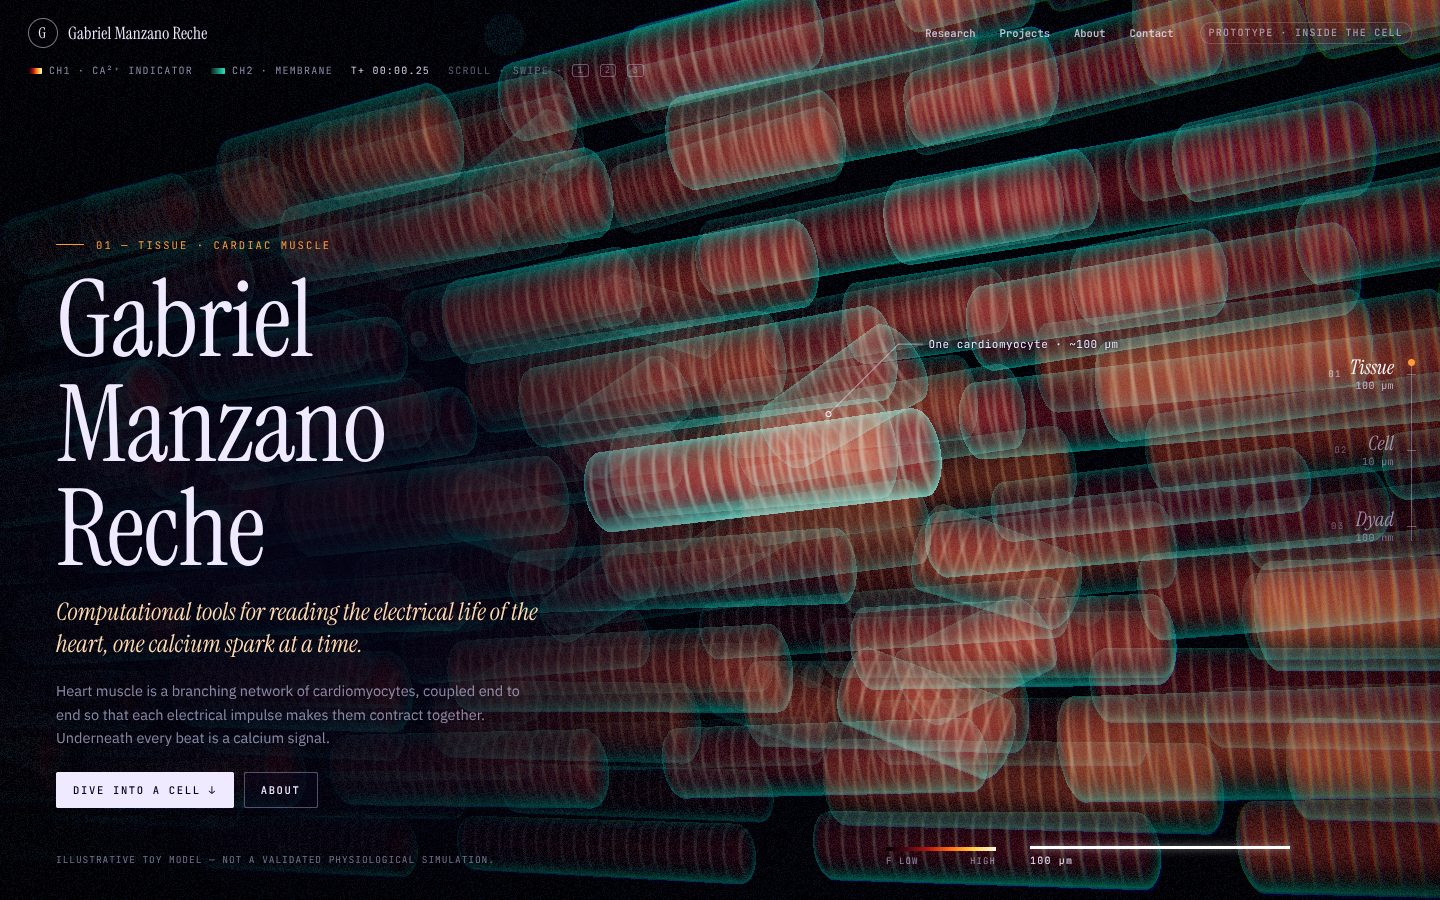
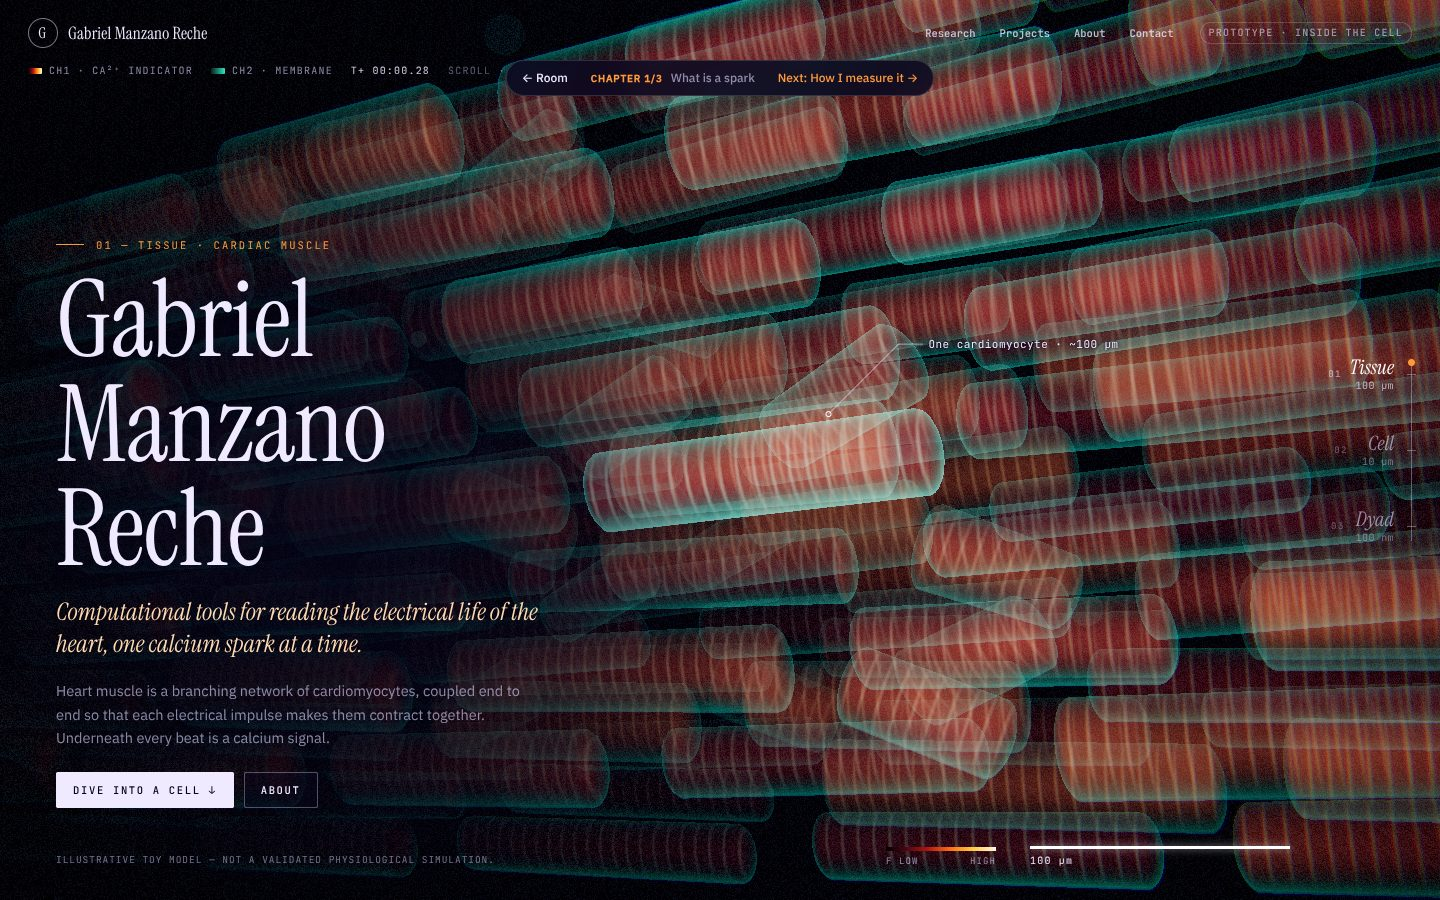
Link the room to the thesis chapters with iris transitions
- src/shared/transition.ts: leave()/arrive() iris hand-off between pages
  (sessionStorage, reduced-motion aware), started automatically by mountChrome
- src/shared/chapters.ts: Room ← · Chapter n/3 · Next → bar in C, D and E
- Signal Room: microscope eyepiece 'Enter the cell' → Ch.1; computer: camera flies
  into the screen → Ch.2 (SPARK/OS); Barcelona window view → Ch.3 (Excitable City)

Claude-Session: https://claude.ai/code/session_01UoR4RpDidyaS8iY2xZxX2B

diff --git a/src/concepts/signal-room/main.ts b/src/concepts/signal-room/main.ts
@@ -15,6 +15,8 @@ import { person } from '../../shared/content';
 import { prefersReducedMotion, isTouch, url } from '../../shared/env';
 import { createScreen } from './screen';
 import { openEyepiece } from './eyepiece';
+import { leave } from '../../shared/transition';
+import { CHAPTERS, pageUrl } from '../../shared/chapters';
 import { openCatalogue } from '../../shared/catalogue';
 import { createCityWindow, CITIES } from './cityWindow';
 
@@ -22,8 +24,8 @@ const EXPOSURE = 2.0; // must match blender/bake.py
 
 type Spot = { label: string; kicker: string; open: () => void };
 const SPOTS: Record<string, Spot> = {
-  microscope: { label: 'Microscope', kicker: 'Imaging · calcium signalling', open: () => openEyepiece() },
-  computer: { label: 'Workstation', kicker: 'Software · GitHub', open: () => openPanel('projects') },
+  microscope: { label: 'Microscope', kicker: 'Chapter 1 · What is a spark', open: () => openEyepiece() },
+  computer: { label: 'Workstation', kicker: 'Chapter 2 · How I measure it', open: () => {} }, // handled by enterScreen()
   notebook: { label: 'Research notebook', kicker: 'Records · publications', open: () => openCatalogue('BIBLIOGRAPHY') },
   poster: {
     label: 'Conference poster', kicker: 'Talks · posters',
@@ -77,7 +79,9 @@ function start() {
     reduced,
     onChange: (c) => {
       const n = CITIES.indexOf(c) + 1;
-      caption.innerHTML = `<span>Places I've lived · ${n}/${CITIES.length}</span><b>${c.name}</b><i>${c.landmarks}</i>`;
+      caption.innerHTML = `<span>Places I've lived · ${n}/${CITIES.length}</span><b>${c.name}</b><i>${c.landmarks}</i>` +
+        (c.key === 'barcelona' ? `<button class="sr-city-go">Watch Barcelona beat · Chapter 3 →</button>` : '');
+      caption.querySelector('.sr-city-go')?.addEventListener('click', () => enterCity());
       caption.classList.remove('is-in'); void caption.offsetWidth; caption.classList.add('is-in');
       const w = anchors.find((a) => a.key === 'window');
       if (w) w.el.querySelector('i')!.textContent = `Places I've lived · ${c.name}`;
@@ -204,15 +208,41 @@ function start() {
     if (ray.intersectObject(scene, true)[0]?.object === cityWin.mesh) cityWin.next();
   });
 
-  // --- camera flights
-  let flight: { from: typeof view; to: typeof view; t: number } | null = null;
-  let focused: string | null = null;
-  function flyTo(to: typeof view) {
-    const from = { pos: view.pos.clone(), target: view.target.clone(), focal: view.focal };
-    flight = reduced ? null : { from, to, t: 0 };
-    if (reduced) Object.assign(view, { pos: to.pos.clone(), target: to.target.clone(), focal: to.focal });
+  // --- window → Chapter 3: push towards the glass, then drop into the excitable city
+  function enterCity() {
+    focused = 'window';
+    document.body.classList.add('is-focused');
+    const target = b2t(-0.2, 1.9, 1.75);
+    flyThen({ pos: b2t(-0.05, 1.2, 1.7), target, focal: 22 }, () => leave(pageUrl(CHAPTERS[2].slug), { color: CHAPTERS[2].color }));
   }
+
+  // --- camera flights
+  let flight: { from: typeof view; to: typeof view; t: number; done?: () => void } | null = null;
+  let focused: string | null = null;
+  function flyTo(to: typeof view, done?: () => void) {
+    const from = { pos: view.pos.clone(), target: view.target.clone(), focal: view.focal };
+    flight = reduced ? null : { from, to, t: 0, done };
+    if (reduced) { Object.assign(view, { pos: to.pos.clone(), target: to.target.clone(), focal: to.focal }); done?.(); }
+  }
+  /** Fly, then run `then` once the camera has arrived (with a safety timeout for slow devices). */
+  function flyThen(to: typeof view, then: () => void) {
+    let fired = false;
+    const once = () => { if (!fired) { fired = true; then(); } };
+    flyTo(to, once);
+    setTimeout(once, 4000);
+  }
+  function enterScreen() {
+    if (!screenMesh) return;
+    focused = 'computer';
+    document.body.classList.add('is-focused');
+    const c = new THREE.Box3().setFromObject(screenMesh).getCenter(new THREE.Vector3());
+    // the screen faces the room (+z in three); stop just in front of it, filling the view
+    flyThen({ pos: c.clone().add(new THREE.Vector3(0, 0, innerWidth / innerHeight < 0.9 ? 0.75 : 0.42)), target: c, focal: 26 },
+      () => leave(pageUrl(CHAPTERS[1].slug), { color: CHAPTERS[1].color }));
+  }
+
   function focusOn(key: string) {
+    if (key === 'computer') return enterScreen();
     const o = spotObjs[key];
     if (!o) return;
     focused = key;
@@ -256,7 +286,7 @@ function start() {
       view.pos.lerpVectors(flight.from.pos, flight.to.pos, k);
       view.target.lerpVectors(flight.from.target, flight.to.target, k);
       view.focal = THREE.MathUtils.lerp(flight.from.focal, flight.to.focal, k);
-      if (flight.t >= 1) flight = null;
+      if (flight.t >= 1) { const done = flight.done; flight = null; done?.(); }
     }
     if (!reduced) sway.lerp(mouse, 0.04);
     camera.position.copy(view.pos).add(tmp.set(sway.x * 0.08, -sway.y * 0.04, 0));

diff --git a/src/shared/transition.ts b/src/shared/transition.ts
@@ -1,0 +1,59 @@
+/**
+ * Page-to-page "iris" transitions between the room and the thesis chapters.
+ * leave(): an iris closes onto a point of the screen, then navigates.
+ * arrive(): called by mountChrome on every page; if the previous page left
+ * through an iris, the new page opens from the same colour once it is ready.
+ * The hand-off travels in sessionStorage (optional: without it pages just load).
+ */
+import { prefersReducedMotion } from './env';
+
+const KEY = 'gx-transition';
+interface Hand { color: string; at: number }
+
+function iris(color: string, x: number, y: number, size: string) {
+  const el = document.createElement('div');
+  el.className = 'gx-iris';
+  el.style.setProperty('--iris-color', color);
+  el.style.left = `${x}px`;
+  el.style.top = `${y}px`;
+  el.style.width = el.style.height = size;
+  document.body.append(el);
+  return el;
+}
+
+/** Close an iris onto (x, y) in the given colour, then go to href. */
+export function leave(href: string, opts: { x?: number; y?: number; color?: string } = {}) {
+  const color = opts.color ?? '#050506';
+  try { sessionStorage.setItem(KEY, JSON.stringify({ color, at: Date.now() } satisfies Hand)); } catch { /* private mode */ }
+  if (prefersReducedMotion()) { location.href = href; return; }
+  const el = iris(color, opts.x ?? innerWidth / 2, opts.y ?? innerHeight / 2, '300vmax');
+  el.getBoundingClientRect(); // commit the start size before animating
+  el.classList.add('is-closing');
+  el.style.width = el.style.height = '0px';
+  setTimeout(() => { location.href = href; }, 900);
+}
+
+/** Open the page from the colour the previous page closed on (no-op on a normal load). */
+export function arrive() {
+  let hand: Hand | null = null;
+  try {
+    hand = JSON.parse(sessionStorage.getItem(KEY) ?? 'null');
+    sessionStorage.removeItem(KEY);
+  } catch { /* ignore */ }
+  if (!hand || Date.now() - hand.at > 15000) return;
+  const el = iris(hand.color, innerWidth / 2, innerHeight / 2, '0px');
+  const t0 = performance.now();
+  const open = () => {
+    if (prefersReducedMotion()) { el.remove(); return; }
+    el.classList.add('is-opening');
+    el.style.width = el.style.height = '300vmax';
+    setTimeout(() => el.remove(), 1300);
+  };
+  // wait for the concept's first meaningful frame (max 8 s), and at least a beat
+  const wait = () => {
+    const ready = window.__conceptReady === true && !document.querySelector('.gx-loader:not(.is-done)');
+    if ((ready && performance.now() - t0 > 250) || performance.now() - t0 > 8000) open();
+    else requestAnimationFrame(wait);
+  };
+  requestAnimationFrame(wait);
+}

diff --git a/src/shared/chrome.css b/src/shared/chrome.css
@@ -82,3 +82,35 @@
   * { scroll-behavior: auto !important; }
   .gx-loader { transition: none; }
 }
+
+/* Iris transition (src/shared/transition.ts): a hole whose huge box-shadow is the curtain */
+.gx-iris {
+  position: fixed; z-index: 300; border-radius: 50%; transform: translate(-50%, -50%);
+  box-shadow: 0 0 0 300vmax var(--iris-color, #050506); pointer-events: auto;
+}
+.gx-iris.is-closing { transition: width .85s cubic-bezier(.7, 0, .84, 0), height .85s cubic-bezier(.7, 0, .84, 0); }
+.gx-iris.is-opening { transition: width 1.2s cubic-bezier(.16, 1, .3, 1), height 1.2s cubic-bezier(.16, 1, .3, 1); pointer-events: none; }
+
+/* Thesis chapter navigation (src/shared/chapters.ts) */
+.gx-chapters {
+  position: fixed; left: 50%; top: 100px; transform: translateX(-50%); z-index: 45;
+  display: flex; align-items: center; gap: 4px; padding: 4px; border-radius: 99px;
+  background: var(--gx-bg); border: 1px solid rgba(255, 255, 255, .14); backdrop-filter: blur(12px);
+  font: 500 12px/1 var(--gx-font); color: var(--gx-fg); white-space: nowrap; max-width: calc(100vw - 32px);
+}
+.gx-chapters a { color: inherit; text-decoration: none; padding: 7px 11px; border-radius: 99px; }
+.gx-chapters a:hover, .gx-chapters a:focus-visible { background: rgba(255, 255, 255, .1); }
+.gx-chapters a.is-next { color: var(--gx-accent); }
+.gx-chapters > span { display: flex; gap: 8px; align-items: baseline; padding: 0 8px; }
+.gx-chapters b { font-weight: 600; letter-spacing: .08em; text-transform: uppercase; font-size: 10px; color: var(--gx-accent); }
+.gx-chapters i { font-style: normal; color: var(--gx-muted); }
+.gx-chapters.is-menubar { top: 2px; z-index: 9000; padding: 1px; font-size: 11px; background: transparent; border: 0; backdrop-filter: none; }
+.gx-chapters.is-menubar a { padding: 4px 9px; }
+/* inside a light OS menu bar (SPARK/OS): dark ink, compact, right of the menus */
+.gx-chapters.is-menubar { left: auto; right: 440px; transform: none; color: #2b2722; }
+.gx-chapters.is-menubar b { color: #c4471a; }
+.gx-chapters.is-menubar a.is-next { color: #c4471a; }
+.gx-chapters.is-menubar a:hover, .gx-chapters.is-menubar a:focus-visible { background: rgba(0, 0, 0, .07); }
+.gx-chapters.is-menubar i, .gx-chapters.is-menubar .gx-ch-title { display: none; }
+@media (max-width: 900px) { .gx-chapters .gx-ch-title, .gx-chapters i { display: none; } }
+@media (max-width: 640px) { .gx-chapters { top: auto; bottom: 12px; } .gx-chapters.is-menubar { top: auto; bottom: 64px; left: 50%; right: auto; transform: translateX(-50%); } }

diff --git a/src/shared/chapters.ts b/src/shared/chapters.ts
@@ -1,0 +1,37 @@
+/**
+ * The thesis path: the room (home) leads to three chapters. A small shared
+ * navigation pill lets visitors move between them or go back to the room.
+ */
+import { url } from './env';
+import { leave } from './transition';
+
+export const ROOM = { slug: 'signal-room', title: 'The room' };
+export const CHAPTERS = [
+  { slug: 'inside-the-cell', title: 'What is a spark', color: '#05040c' },
+  { slug: 'digital-station', title: 'How I measure it', color: '#0b1018' },
+  { slug: 'wildcard', title: 'From sparks to arrhythmia', color: '#03060c' },
+] as const;
+
+export const pageUrl = (slug: string) => url(`concepts/${slug}/index.html`);
+
+/** placement: 'top' sits under the site nav; 'menubar' sits inside an OS-style top bar. */
+export function mountChapterNav(slug: string, placement: 'top' | 'menubar' = 'top') {
+  const i = CHAPTERS.findIndex((c) => c.slug === slug);
+  if (i < 0) return;
+  const prev = CHAPTERS[i - 1], next = CHAPTERS[i + 1];
+  const nav = document.createElement('nav');
+  nav.className = `gx-chapters is-${placement}`;
+  nav.setAttribute('aria-label', 'Thesis chapters');
+  nav.innerHTML = `
+    <a href="${pageUrl(ROOM.slug)}" data-go="${ROOM.slug}" data-color="#050407">← Room</a>
+    ${prev ? `<a href="${pageUrl(prev.slug)}" data-go="${prev.slug}" data-color="${prev.color}" aria-label="Previous chapter: ${prev.title}">‹</a>` : ''}
+    <span><b>Chapter ${i + 1}/${CHAPTERS.length}</b><i>${CHAPTERS[i].title}</i></span>
+    ${next ? `<a href="${pageUrl(next.slug)}" data-go="${next.slug}" data-color="${next.color}" class="is-next">Next<span class="gx-ch-title">: ${next.title}</span> →</a>` : ''}`;
+  nav.querySelectorAll<HTMLAnchorElement>('a[data-go]').forEach((a) =>
+    a.addEventListener('click', (e) => {
+      e.preventDefault();
+      const r = a.getBoundingClientRect();
+      leave(a.href, { x: r.left + r.width / 2, y: r.top + r.height / 2, color: a.dataset.color });
+    }));
+  document.body.append(nav);
+}

diff --git a/src/concepts/signal-room/eyepiece.ts b/src/concepts/signal-room/eyepiece.ts
@@ -5,6 +5,8 @@
  */
 import { sectionHTML } from '../../shared/chrome';
 import { prefersReducedMotion, rng } from '../../shared/env';
+import { leave } from '../../shared/transition';
+import { CHAPTERS, pageUrl } from '../../shared/chapters';
 
 export function openEyepiece() {
   const wrap = document.createElement('div');
@@ -18,7 +20,10 @@ export function openEyepiece() {
       <p class="sr-eyebrow">Through the eyepiece · synthetic fluorescence</p>
       ${sectionHTML('research')}
       <p class="sr-ep-note">Illustration: a cardiomyocyte with stochastic calcium sparks. Not experimental data.</p>
-      <button class="sr-ep-close">Back to the desk <kbd>Esc</kbd></button>
+      <div class="sr-ep-actions">
+        <button class="sr-ep-dive">Enter the cell · Chapter 1 →</button>
+        <button class="sr-ep-close">Back to the desk <kbd>Esc</kbd></button>
+      </div>
     </div>`;
   document.body.append(wrap);
   const btn = wrap.querySelector<HTMLButtonElement>('.sr-ep-close')!;
@@ -78,5 +83,10 @@ export function openEyepiece() {
   };
   const onKey = (e: KeyboardEvent) => e.key === 'Escape' && close();
   btn.addEventListener('click', close);
+  wrap.querySelector('.sr-ep-dive')!.addEventListener('click', () => {
+    // close the iris onto the centre of the eyepiece: the field of view becomes the cell
+    const r = wrap.querySelector('.sr-ep-view')!.getBoundingClientRect();
+    leave(pageUrl(CHAPTERS[0].slug), { x: r.left + r.width / 2, y: r.top + r.height / 2, color: CHAPTERS[0].color });
+  });
   addEventListener('keydown', onKey);
 }

diff --git a/src/concepts/signal-room/style.css b/src/concepts/signal-room/style.css
@@ -101,3 +101,15 @@ kbd { font: 11px 'IBM Plex Mono', monospace; border: 1px solid currentColor; bor
 .is-focused .sr-city { opacity: 0; }
 @media (max-width: 760px) { .sr-city { left: 16px; right: auto; text-align: left; bottom: auto; top: 64px; } .sr-city b { font-size: 22px; } }
 @media (prefers-reduced-motion: reduce) { .sr-city.is-in { animation: none; } }
+.sr-ep-actions { display: flex; flex-wrap: wrap; gap: 10px; margin-top: 22px; }
+.sr-ep-actions .sr-ep-close { margin-top: 0; }
+.sr-ep-dive {
+  background: var(--gx-accent); color: #1a1006; border: 0; border-radius: 99px; padding: 11px 20px;
+  font: 600 13px var(--gx-font); cursor: pointer;
+}
+.sr-city-go {
+  justify-self: end; margin-top: 8px; pointer-events: auto; cursor: pointer; border: 1px solid var(--gx-accent);
+  background: var(--gx-bg); color: var(--gx-fg); border-radius: 99px; padding: 8px 14px; font: 500 12px var(--gx-font);
+}
+.sr-city-go:hover, .sr-city-go:focus-visible { background: var(--gx-accent); color: #1a1006; }
+@media (max-width: 760px) { .sr-city-go { justify-self: start; } }

diff --git a/src/concepts/digital-station/main.ts b/src/concepts/digital-station/main.ts
@@ -5,6 +5,7 @@
  * (small) detection algorithm on a synthetic confocal frame-scan (x–y–t) movie.
  */
 import '@fontsource/ibm-plex-sans/400.css';
+import { mountChapterNav } from '../../shared/chapters';
 import '@fontsource/ibm-plex-sans/500.css';
 import '@fontsource/ibm-plex-sans/600.css';
 import '@fontsource/ibm-plex-sans/400-italic.css';
@@ -24,6 +25,7 @@ import { paintWallpaper } from './wallpaper';
 import { DEFAULT_SEED, fileName, series, paintRaw, heroFrame } from './analysis';
 
 mountChrome({ concept: 'Digital Research Station', status: 'SPARK/OS desktop · windows, terminal, synthetic SparkLab analysis' });
+mountChapterNav('digital-station', 'menubar');
 document.body.classList.add('ds');
 
 const reduced = prefersReducedMotion();

diff --git a/src/concepts/inside-the-cell/main.ts b/src/concepts/inside-the-cell/main.ts
@@ -1,4 +1,5 @@
 import '@fontsource/instrument-serif/400.css';
+import { mountChapterNav } from '../../shared/chapters';
 import '@fontsource/instrument-serif/400-italic.css';
 import '@fontsource-variable/jetbrains-mono';
 import '@fontsource/ibm-plex-sans/400.css';
@@ -19,6 +20,7 @@ const ok = mountChrome({
   status: 'Concept C prototype — illustrative toy models and synthetic data, not validated physiology',
   needsWebGL: true,
 });
+mountChapterNav('inside-the-cell', 'top');
 
 const esc = (s: string) => s.replace(/[&<>"]/g, (c) => ({ '&': '&amp;', '<': '&lt;', '>': '&gt;', '"': '&quot;' })[c]!);
 const itemPanel = (i: number) => openPanel({ title: research[i].title, html: `<p>${esc(research[i].body)}</p>` });

diff --git a/src/shared/chrome.ts b/src/shared/chrome.ts
@@ -7,6 +7,7 @@
 import './chrome.css';
 import { sections, person, type SectionKey } from './content';
 import { hasWebGL, url } from './env';
+import { arrive } from './transition';
 
 export interface ChromeOptions {
   concept: string;          // human name, e.g. "The Signal Room"
@@ -46,6 +47,7 @@ export function onPanelClose(cb: () => void) {
 }
 
 export function mountChrome(opts: ChromeOptions) {
+  arrive(); // finish an iris transition started on the previous page, if any
   const nav = document.createElement('header');
   nav.className = 'gx-nav';
   nav.innerHTML = `

diff --git a/src/concepts/wildcard/main.ts b/src/concepts/wildcard/main.ts
@@ -6,6 +6,7 @@
  * Illustrative model only — not a patient-specific simulation.
  */
 import '@fontsource-variable/space-grotesk';
+import { mountChapterNav } from '../../shared/chapters';
 import '@fontsource/ibm-plex-mono/400.css';
 import '@fontsource/ibm-plex-mono/500.css';
 import './style.css';
@@ -27,6 +28,7 @@ const ok = mountChrome({
   status: 'Concept D prototype — Barkley excitable-media model driving a stylised Eixample at night',
   needsWebGL: true,
 });
+mountChapterNav('wildcard', 'top');
 
 if (ok) start();
 

diff --git a/docs/ROADMAP.md b/docs/ROADMAP.md
@@ -66,5 +66,10 @@ Default monument proposal (to confirm):
 - [x] WP4 SparkLab rework to frame scan (`src/shared/framescan.ts`: generator + detector).
 - [x] WP5 C inset → x–y frame view + ROI ΔF/F0 trace.
 - [x] Index cards moved to `src/shared/catalogue.ts` and used by A's notebook.
-- [ ] WP3 detail pass on A · [ ] WP6 chapter integration/transitions · [ ] WP7 production.
+- [x] WP6 (first pass) chapter integration: iris transitions (`src/shared/transition.ts`) and a
+      chapter bar (`src/shared/chapters.ts`). Microscope → eyepiece → "Enter the cell" → Ch. 1 (C);
+      computer → camera flies into the screen → Ch. 2 (E); window on Barcelona → "Watch Barcelona
+      beat" → Ch. 3 (D). Chapters link Room ← · prev · next.
+- [ ] WP3 detail pass on A (incl. better city models) · [ ] WP6b seamless single-page transitions
+      (shared renderer) · [ ] WP7 production.
 - Open: confirm the chronological order of the cities (currently Baza → Granada → Madrid → Barcelona).
